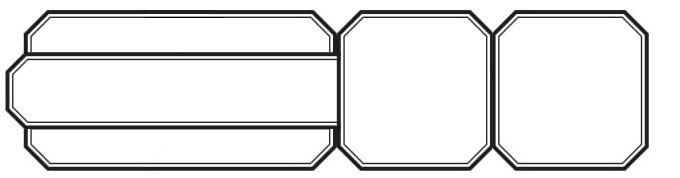
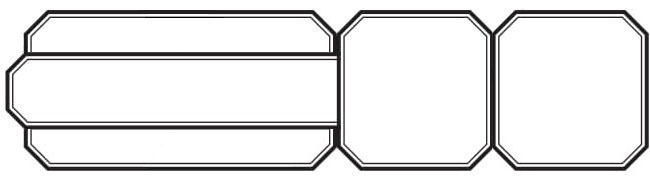
Design width trimmed Design postion moved

diff --git a/FreeForm.css b/FreeForm.css
@@ -1002,7 +1002,7 @@ div.sheet-skill{
 						"carpentry		leatherworking	weaving"
 						"cooking		jewelsmithing	none";
 	grid-gap: 6px;
-	margin-left: 25px;
+	margin-left: 0px;
 }
 
 /* MELEE SECTION */
@@ -1016,7 +1016,7 @@ div.sheet-melee div.sheet-section-small{
 	background-image: url(https://github.com/6litch/DnD-FreeForm/blob/master/images/FFskillsblock.jpg?raw=true);
 	background-size: contain;
 	background-repeat: no-repeat;
-	height: 80px;
+	height: 75px;
 	width: 600px;
 }
 
@@ -1054,14 +1054,14 @@ div.sheet-melee button:hover{
 
 div.sheet-ranged{
 	grid-area: ranged;
-	margin-left: 15px;
+	margin-left: 22px;
 }
 
 div.sheet-ranged div.sheet-section-small{
 	background-image: url(https://github.com/6litch/DnD-FreeForm/blob/master/images/FFskillsblock.jpg?raw=true);
 	background-size: contain;
 	background-repeat: no-repeat;
-	height: 80px;
+	height: 75px;
 	width: 600px;
 }
 
@@ -1098,14 +1098,14 @@ div.sheet-ranged button:hover{
 
 div.sheet-stealth{
 	grid-area: stealth;
-	margin-left: 15px;
+	margin-left: 28px;
 }
 
 div.sheet-stealth div.sheet-section-small{
 	background-image: url(https://github.com/6litch/DnD-FreeForm/blob/master/images/FFskillsblock.jpg?raw=true);
 	background-size: contain;
 	background-repeat: no-repeat;
-	height: 80px;
+	height: 75px;
 	width: 600px;
 }
 
@@ -1142,11 +1142,11 @@ div.sheet-stealth button:hover{
 
 div.sheet-tinkering{
 	grid-area: tinkering;
-	margin-left: 15px;
+	margin-left: 22px;
 	background-image: url(https://github.com/6litch/DnD-FreeForm/blob/master/images/FFskillsblock.jpg?raw=true);
 	background-size: contain;
 	background-repeat: no-repeat;
-	height: 80px;
+	height: 75px;
 	width: 600px;
 }
 
